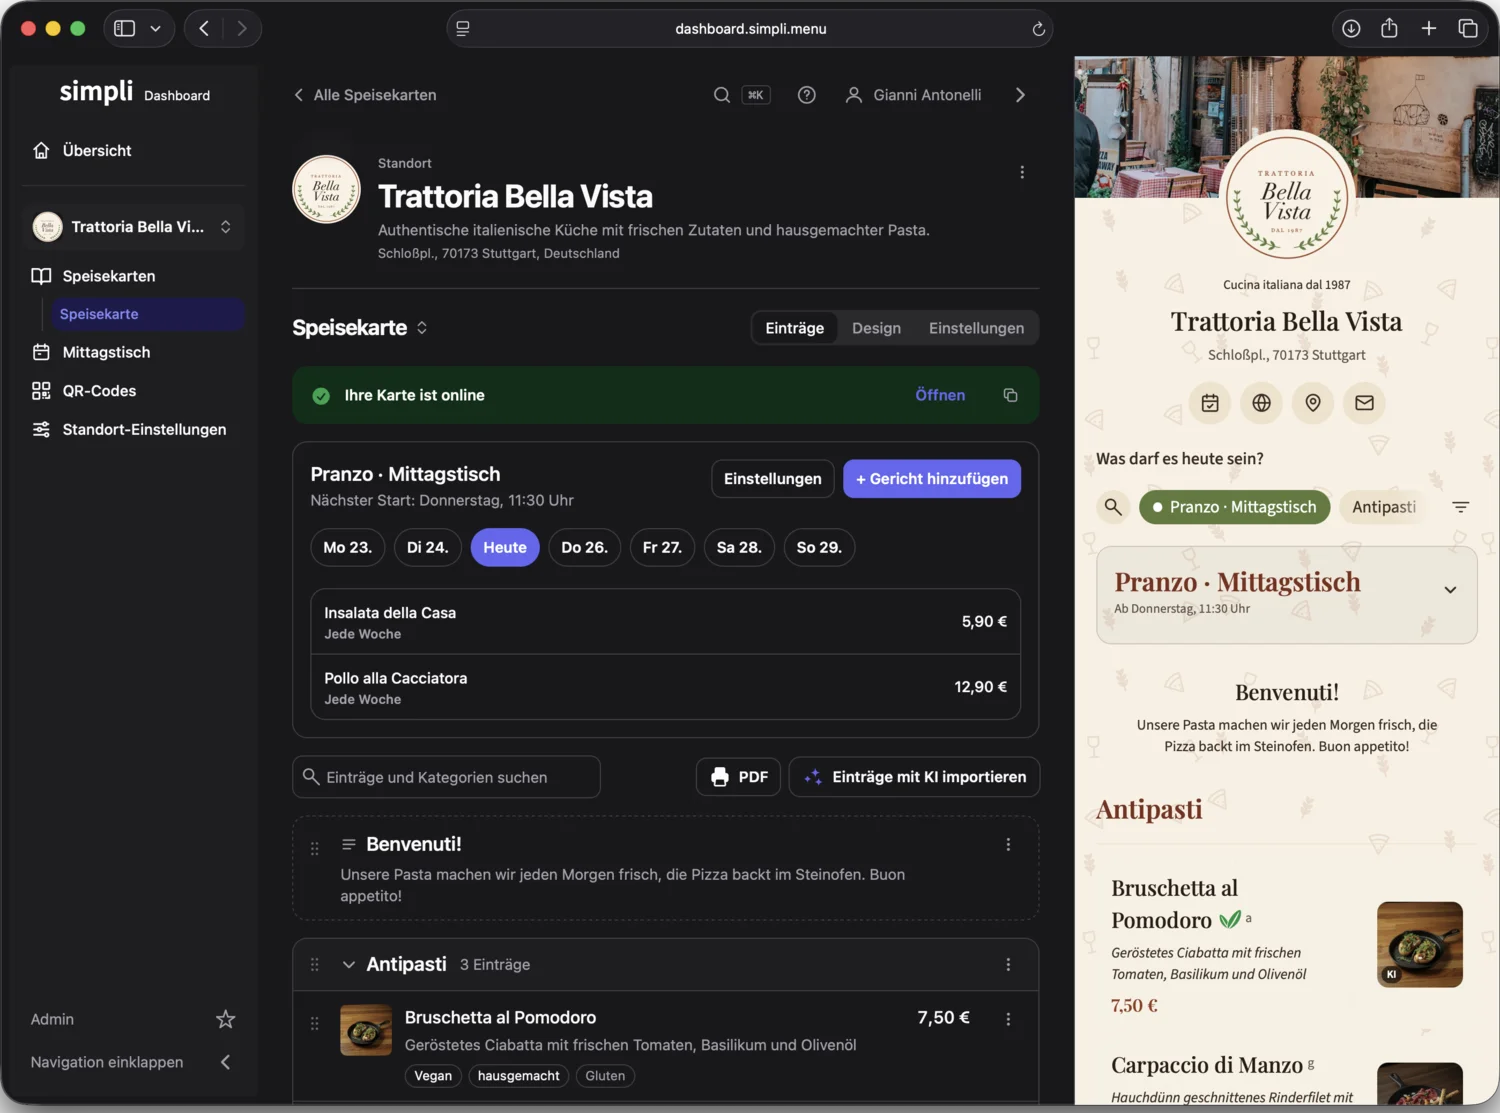
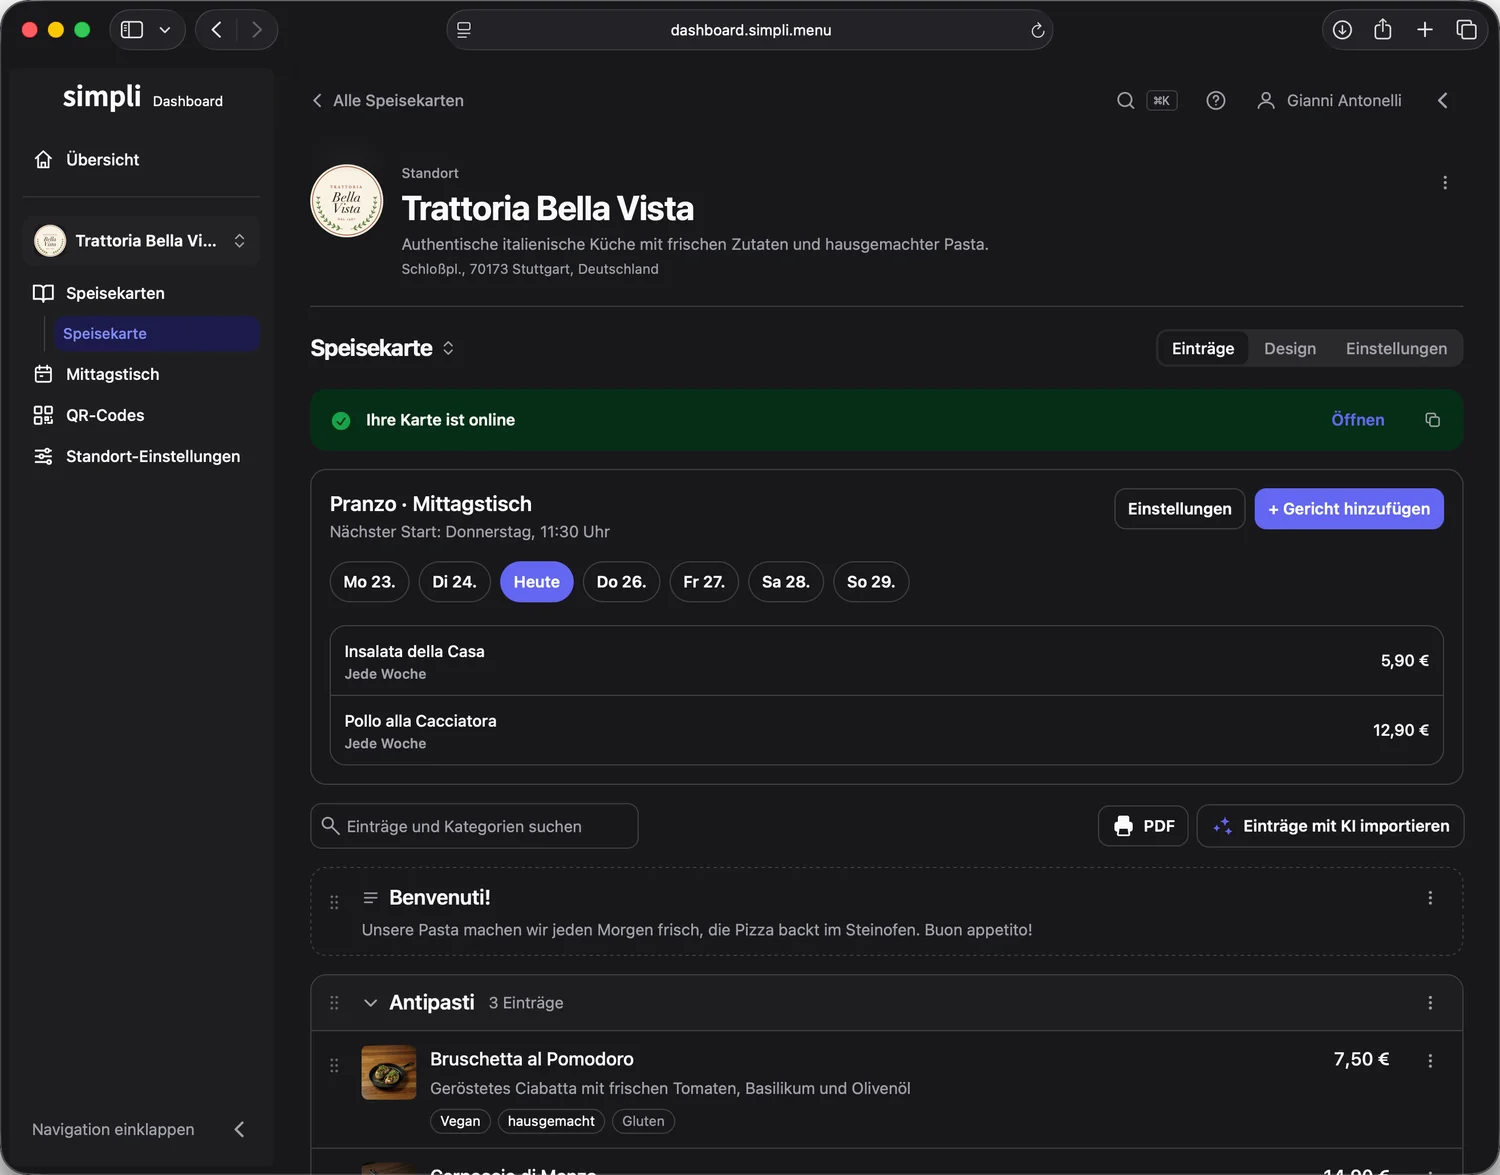
New editor screenshot without the live preview
Taken from the editor demo, cropped to the browser window, 1500x1175.

diff --git a/src/app/components/home/SimpliShowcase.tsx b/src/app/components/home/SimpliShowcase.tsx
@@ -52,7 +52,7 @@ export function SimpliShowcase({ lang }: { lang: Lang }) {
                     src='/real/simpli-editor-main.webp'
                     alt={text.editorAlt}
                     width={1500}
-                    height={1113}
+                    height={1175}
                     sizes='900px'
                     className='hidden w-[82%] h-auto rounded-3xl ring-1 ring-white/10 md:block'
                 />
